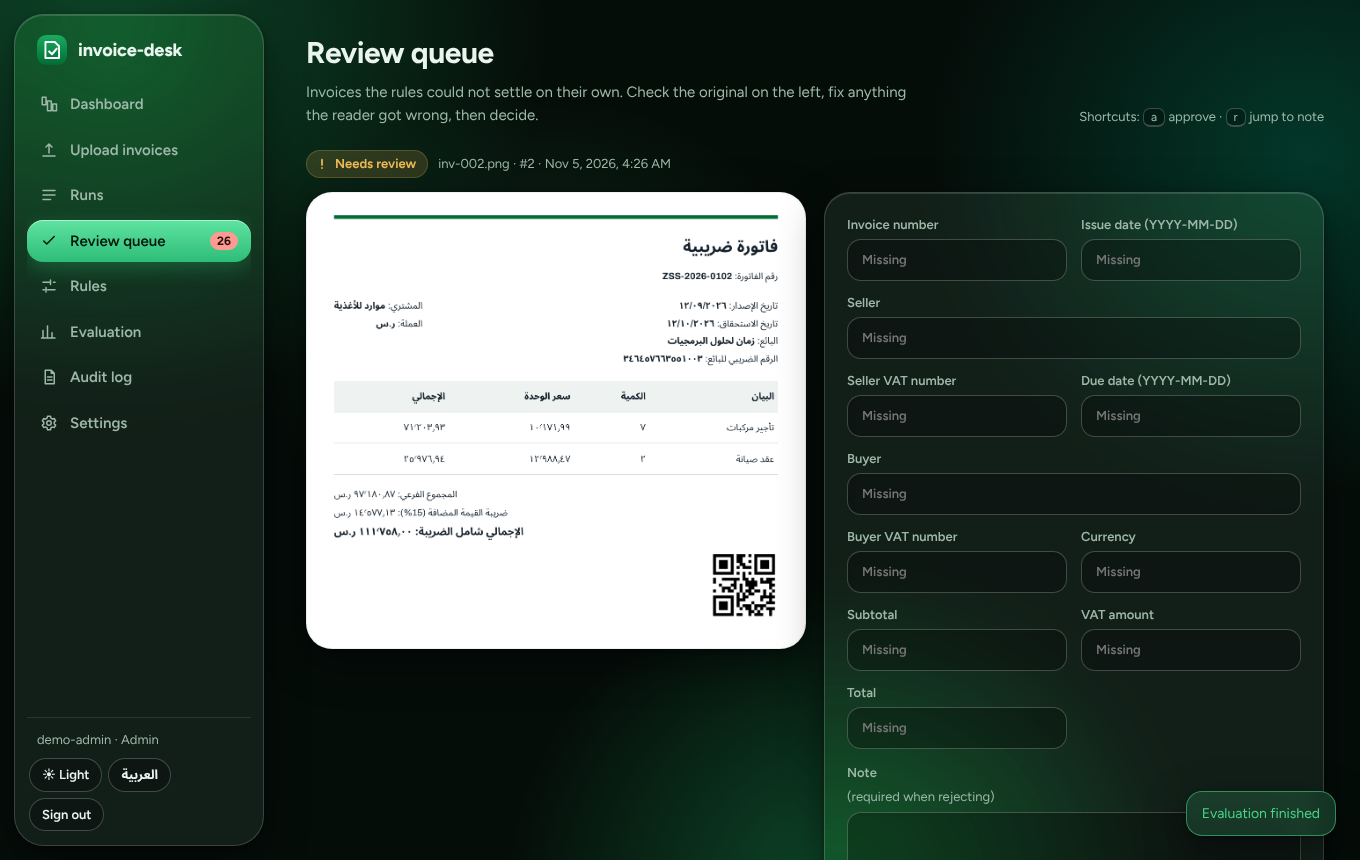
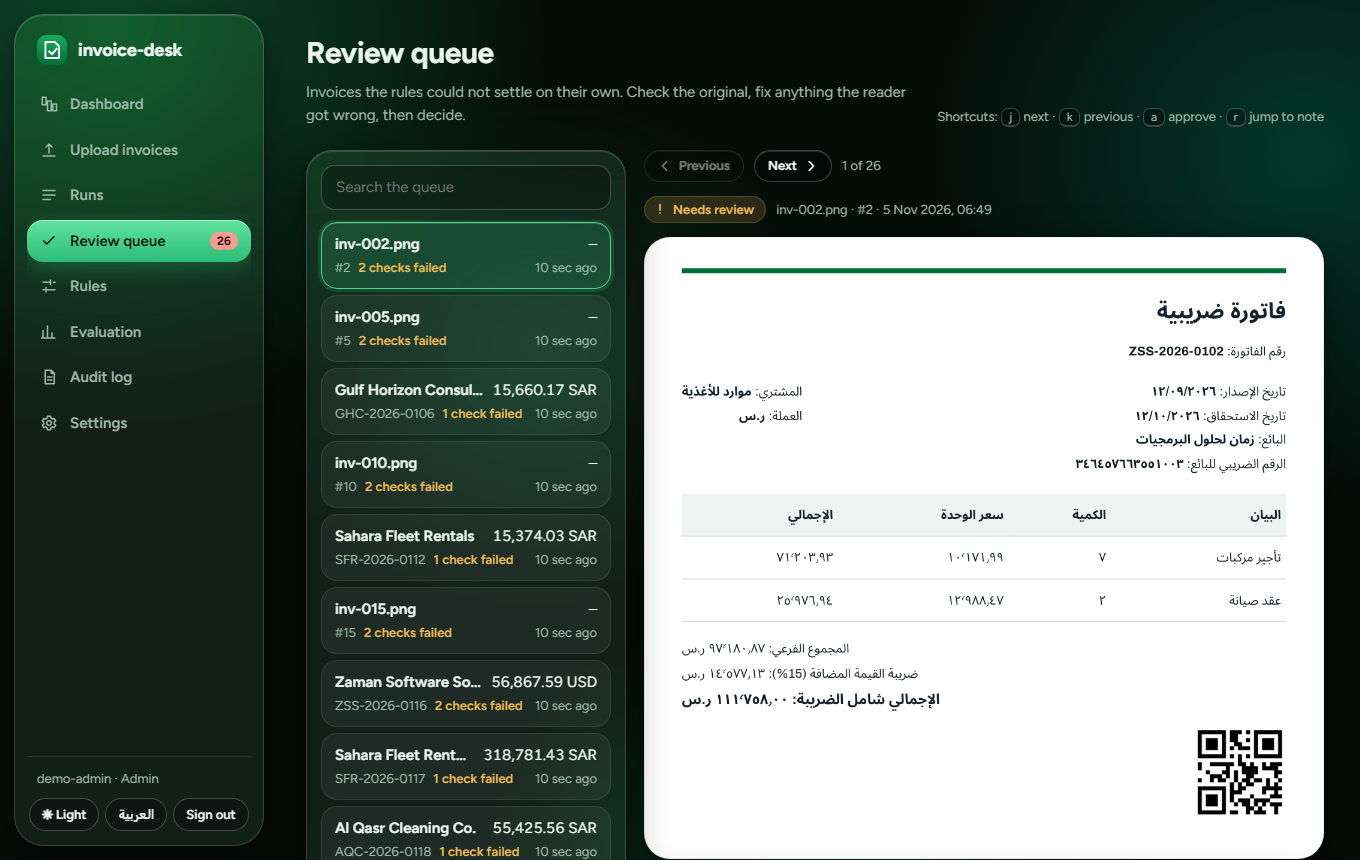
Refresh screenshots and README
- Re-ran tools/e2e.py: all 12 existing screenshots retaken with the new
  review queue, plus the Arabic Dashboard, Review and Rules (13-15).
- e2e.py turns off transitions and hides toasts before capturing, so
  screenshots no longer catch the sidebar mid-animation or a toast in a corner.
- README: live demo link near the top with a note about Render's free tier
  (slow first load, data resets on restart), review queue navigation and
  j/k/a/r keys, full Arabic/RTL support, bundle about 75 KB gzipped, an
  Arabic screenshot row, 98 tests, and an updated note on what stays English.

diff --git a/tools/e2e.py b/tools/e2e.py
@@ -15,6 +15,8 @@ with sync_playwright() as pw:
     page.on("pageerror", lambda e: errors.append(str(e)))
     page.on("console", lambda m: m.type == "error" and errors.append(m.text))
     page.goto(BASE)
+    # Steady screenshots: no half-finished transitions, and no notification toasts covering a corner.
+    page.add_style_tag(content="*, *::before, *::after { transition: none !important; animation: none !important; } .toast { visibility: hidden !important; }")
     page.get_by_role("button", name="Admin").click()
     expect(page.get_by_role("heading", name="Dashboard")).to_be_visible()
     page.screenshot(path=OUT / "01-empty-dashboard.png")
@@ -89,6 +91,7 @@ with sync_playwright() as pw:
 
     m = b.new_page(viewport={"width": 390, "height": 800}, device_scale_factor=2)
     m.goto(BASE)
+    m.add_style_tag(content="*, *::before, *::after { transition: none !important; animation: none !important; } .toast { visibility: hidden !important; }")
     m.get_by_role("button", name="Reviewer").click()
     m.wait_for_timeout(600)
     m.screenshot(path=OUT / "11-mobile.png")

diff --git a/README.md b/README.md
@@ -2,23 +2,30 @@
 
 A Saudi e-invoice intake desk. Invoices come in as text, PDF or photo. A built-in reader, or an AI model you choose (free options included), pulls out the fields, a rule engine checks them, clean invoices are approved automatically, doubtful ones go to a person, and every decision is logged. The rules live in the database and are edited in the portal, so changing a policy needs no deployment.
 
+**Live demo: https://invoice-desk-ct8w.onrender.com** (pick a role to look around; all data is made up). It runs on Render's free tier, so the first load after a quiet spell can take about a minute while the server wakes up, and its data resets whenever the server restarts.
+
 ![Dashboard](docs/screens/03-dashboard.png)
 
 | Review queue | Rules admin |
 |---|---|
 | ![Review](docs/screens/04-review.png) | ![Rules](docs/screens/06-rules.png) |
 
+| Arabic dashboard | Arabic review queue | Arabic rules |
+|---|---|---|
+| ![Dashboard in Arabic](docs/screens/13-dashboard-ar.png) | ![Review queue in Arabic](docs/screens/14-review-ar.png) | ![Rules in Arabic](docs/screens/15-rules-ar.png) |
+
 ## What it does
 
 - **Reads invoices** in English, Arabic or both, from text, PDFs and images. Two kinds of reader: a free built-in rule-based reader that needs nothing, and an AI model of your choice: **Google Gemini (free key)**, **Groq (free)**, **OpenRouter (free models)**, **Ollama (runs on your own computer)**, Anthropic Claude or OpenAI. All of them go through one extractor interface, with a guard against instructions hidden in the document.
 - **Validates** with 14 rule types: required fields, Saudi VAT number format, 15% VAT, totals, line arithmetic, dates, currency, amount limits, QR code agreement (TLV payload), duplicates, extraction confidence, regex, and a custom expression type.
 - **Routes** each invoice: approved automatically, sent to review, or rejected. Severity is set per rule.
-- **Human review** screen: original beside the extracted fields, edit anything, approve or reject with a note, keyboard shortcut for approve. Corrections are kept next to the original extraction.
+- **Human review** queue: a searchable list of everything waiting, beside the original and its extracted fields. Edit anything, approve or reject with a note, and move through the queue with Previous/Next or the keyboard (`j` next, `k` previous, `a` approve, `r` jump to the note). Each invoice has its own link (`#/review/<id>`), and after a decision the next one opens. Corrections are kept next to the original extraction.
 - **Rules as data**: add, edit, reorder, switch off and delete rules in the portal. Every change is a version you can restore. A dry run shows how many past invoices would get a different decision before you save.
 - **Audit log** of every action, including automatic decisions.
 - **Evaluation** page: scores the reader and rules on 60 synthetic invoices with a known answer key (field accuracy, decision agreement, unsafe approvals, false rejections).
 - **Roles**: viewer, reviewer, admin. Signed tokens. Demo mode lets visitors pick a role; set `DEMO_MODE=0` and `INVOICE_DESK_USERS` for real sign-in.
-- **Portal**: React and TypeScript, about 62 KB gzipped, no UI or chart library. A frosted-glass design in flag green and white, light and dark themes, English and Arabic with right-to-left layout, responsive down to phone width.
+- **Portal**: React and TypeScript, about 75 KB gzipped, no UI or chart library. A frosted-glass design in flag green and white, light and dark themes, responsive down to phone width.
+- **Full Arabic** with a right-to-left layout: every screen is translated, with Arabic plural forms, and numbers and dates are formatted for the chosen language, while invoice numbers, VAT numbers, amounts and currency codes stay left-to-right. `node tools/check_i18n.mjs` (run in CI) fails if any text in the portal is missing its Arabic.
 - **MCP server** so Claude Desktop or Claude Code can read and check invoices.
 
 ## Run it
@@ -98,7 +105,7 @@ flowchart LR
 
 ```bash
 pip install -e ".[dev,mcp]"
-pytest -q          # 95 tests: rules, expression safety, pipeline, review, versioning, API roles, provider adapters (fake servers), evaluation
+pytest -q          # 98 tests: rules, expression safety, pipeline, review and the review queue, versioning, API roles, provider adapters (fake servers), evaluation
 python tools/e2e.py   # with the server running: drives the portal in Chromium
 ```
 
@@ -108,7 +115,7 @@ python tools/e2e.py   # with the server running: drives the portal in Chromium
 - All sample data is invented, including company names and VAT numbers. Do not upload real invoices to a public demo.
 - AI providers are tested against fakes only. Their accuracy is yours to measure.
 - Data is held in SQLite. On free hosting without a volume it resets when the container restarts.
-- Arabic UI covers navigation and main labels, not every screen.
+- The Arabic interface translates everything the portal itself writes. Invoice contents, rule names an admin types, check details and server error messages are shown as written, usually in English.
 
 ## Licence
 
